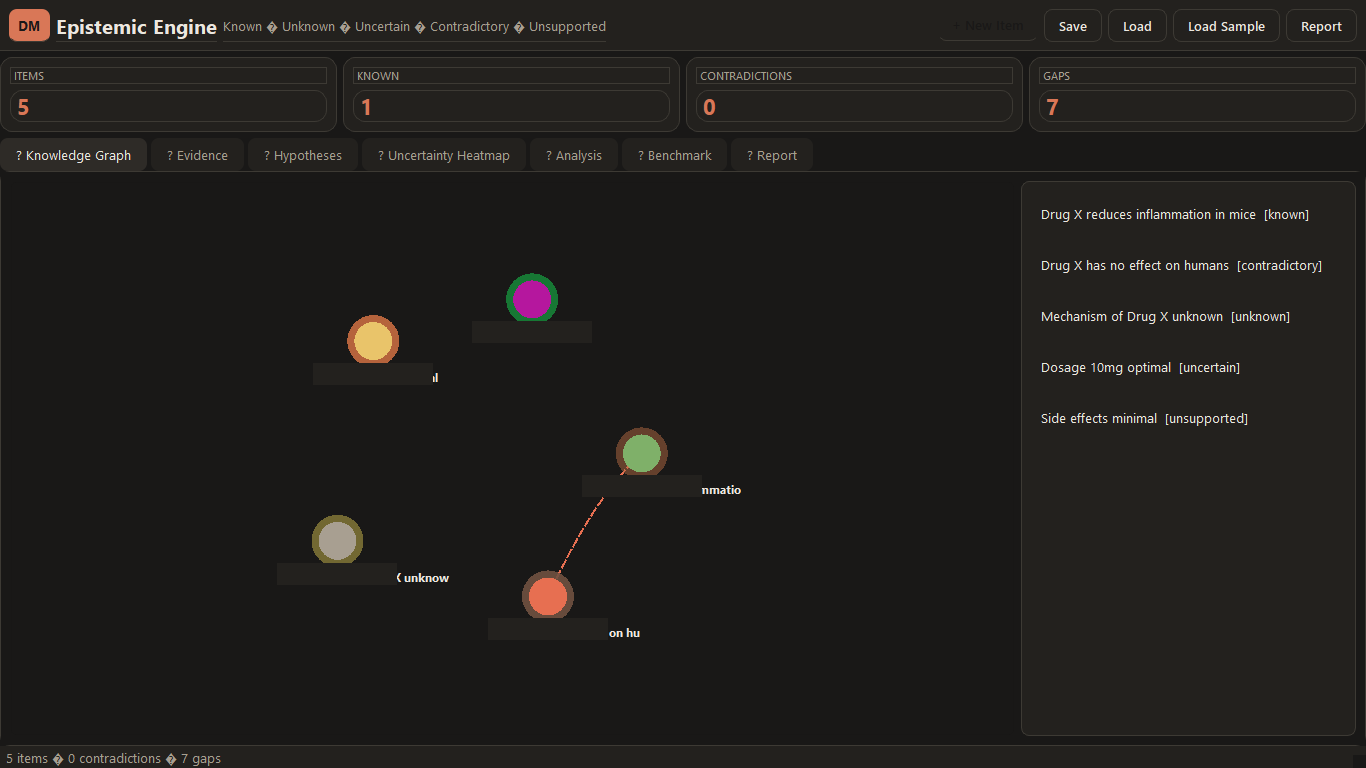
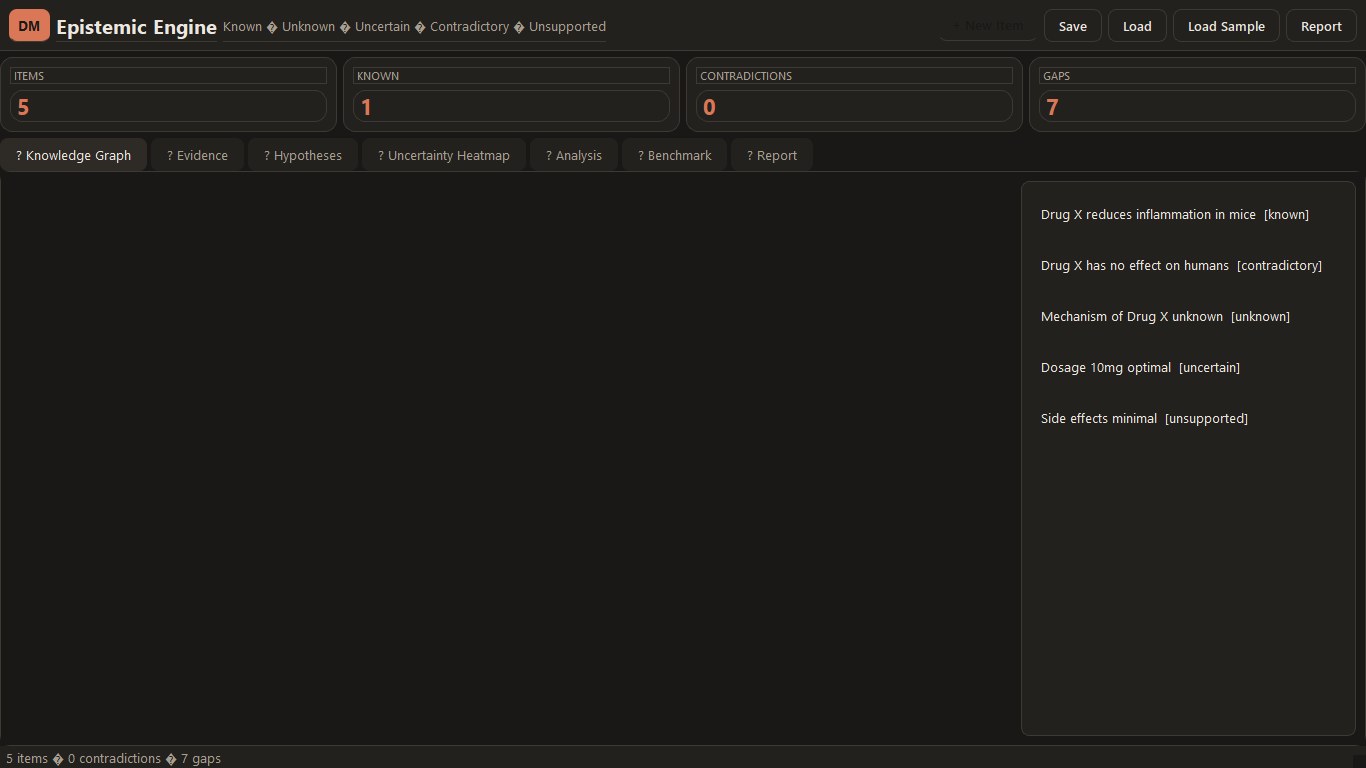
feat: real 3D knowledge graph with Qt3D

diff --git a/epistemic_engine/ui/graph3d.py b/epistemic_engine/ui/graph3d.py
@@ -1,0 +1,92 @@
+"""Premium 3D graph view using Qt3D."""
+import math, random
+from PySide6.QtWidgets import QWidget, QVBoxLayout
+from PySide6.QtCore import Qt
+from PySide6.QtGui import QColor, QVector3D
+from PySide6.Qt3DCore import Qt3DCore
+from PySide6.Qt3DRender import Qt3DRender
+from PySide6.Qt3DExtras import Qt3DExtras
+from .theme import COLORS
+
+
+class Graph3DView(QWidget):
+    def __init__(self, parent=None):
+        super().__init__(parent)
+        self.view = Qt3DExtras.Qt3DWindow()
+        self.view.defaultFrameGraph().clearColor = QColor("#191817")
+        self.root = Qt3DCore.QEntity()
+        self.view.setRootEntity(self.root)
+        self.camera = self.view.camera()
+        self.camera.setViewCenter(QVector3D(0, 0, 0))
+        self.camera.setPosition(QVector3D(0, 2.5, 8))
+        self.camera.setUpVector(QVector3D(0, 1, 0))
+        self.camera.setProjectionType(Qt3DRender.QCameraLens.PerspectiveProjection)
+        self.camera.setNearPlane(0.1)
+        self.camera.setFarPlane(1000.0)
+        self.camera.setFieldOfView(45.0)
+        orbit = Qt3DExtras.QOrbitCameraController(self.root)
+        orbit.camera = self.camera
+        # warm key light
+        light = Qt3DCore.QEntity(self.root)
+        lc = Qt3DRender.QPointLight(light)
+        lc.setColor(QColor("#ff9770"))
+        lc.setIntensity(1.4)
+        light.addComponent(lc)
+        lt = Qt3DCore.QTransform(light)
+        lt.setTranslation(QVector3D(3, 4, 6))
+        light.addComponent(lt)
+        # cool fill light
+        light2 = Qt3DCore.QEntity(self.root)
+        lc2 = Qt3DRender.QPointLight(light2)
+        lc2.setColor(QColor("#7a9e7e"))
+        lc2.setIntensity(0.7)
+        light2.addComponent(lc2)
+        lt2 = Qt3DCore.QTransform(light2)
+        lt2.setTranslation(QVector3D(-4, -2, -3))
+        light2.addComponent(lt2)
+        lay = QVBoxLayout(self)
+        lay.setContentsMargins(0, 0, 0, 0)
+        self.container = QWidget.createWindowContainer(self.view)
+        lay.addWidget(self.container)
+        self._entities = []
+
+    def render_graph(self, graph):
+        for e in self._entities:
+            e.setParent(None)
+            e.deleteLater()
+        self._entities = []
+        nodes = list(graph.nodes.values())
+        n = len(nodes)
+        rng = random.Random(42)
+        for i, item in enumerate(nodes):
+            ang = 2 * math.pi * i / max(1, n)
+            rr = 2.4 * rng.uniform(0.75, 1.15)
+            x = rr * math.cos(ang)
+            z = rr * math.sin(ang)
+            y = rng.uniform(-0.8, 0.8)
+            color = COLORS.get(item.category.value, "#d97757")
+            ent = Qt3DCore.QEntity(self.root)
+            sphere = Qt3DExtras.QSphereMesh(ent)
+            sphere.setRadius(0.38)
+            sphere.setRings(32)
+            sphere.setSlices(32)
+            mat = Qt3DExtras.QDiffuseSpecularMaterial(ent)
+            # QDiffuseSpecularMaterial uses diffuse color property via parameter model
+            try:
+                mat.setDiffuse(QColor(color))
+            except Exception:
+                pass
+            try:
+                mat.setSpecular(QColor("#ffffff"))
+            except Exception:
+                pass
+            try:
+                mat.setShininess(80.0)
+            except Exception:
+                pass
+            tr = Qt3DCore.QTransform(ent)
+            tr.setTranslation(QVector3D(x, y, z))
+            ent.addComponent(sphere)
+            ent.addComponent(mat)
+            ent.addComponent(tr)
+            self._entities.append(ent)

diff --git a/epistemic_engine/ui/main_window.py b/epistemic_engine/ui/main_window.py
@@ -5,6 +5,7 @@ from PySide6.QtWidgets import (QMainWindow, QWidget, QVBoxLayout, QHBoxLayout, Q
     QComboBox, QLineEdit, QFormLayout, QFrame)
 from PySide6.QtCore import Qt
 from .graph_view import GraphView
+from .graph3d import Graph3DView
 from .heatmap_view import HeatmapView
 from .theme import THEME_QSS, COLORS
 from ..core.knowledge_item import KnowledgeItem, EpistemicCategory, ValidationStatus
@@ -70,7 +71,7 @@ class MainWindow(QMainWindow):
         self.tabs = QTabWidget()
         root.addWidget(self.tabs)
         gtab = QWidget(); gl = QHBoxLayout(gtab)
-        self.graph_view = GraphView(); gl.addWidget(self.graph_view, 3)
+        self.graph_view = Graph3DView(); gl.addWidget(self.graph_view, 3)
         self.item_list = QListWidget(); gl.addWidget(self.item_list, 1)
         self.tabs.addTab(gtab, "? Knowledge Graph")
         etab = QWidget(); el = QVBoxLayout(etab)
